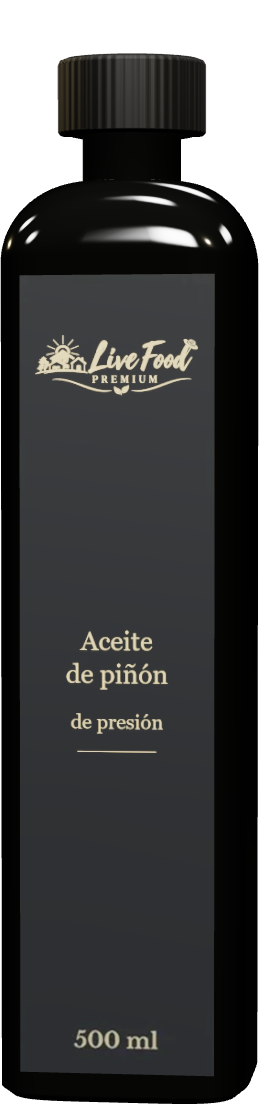
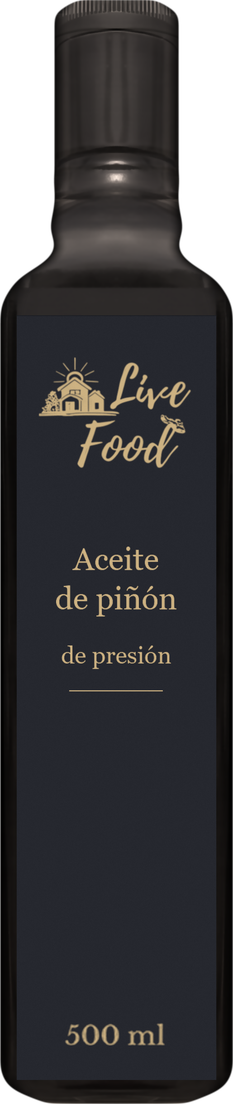
preview update

diff --git a/index.html b/index.html
@@ -1169,17 +1169,20 @@ function aoTex(){ const cv = document.createElement('canvas'); cv.width = cv.hei
 function ridge(){ const cv = document.createElement('canvas'); cv.width = 256; cv.height = 4; const x = cv.getContext('2d');
   for (let i = 0; i < 256; i++){ const v = 128 + 127*Math.sin(i/256*Math.PI*96); x.fillStyle = `rgb(${v},${v},${v})`; x.fillRect(i, 0, 1, 4); } return new THREE.CanvasTexture(cv); }
 function bottle(map){
-  const g = new THREE.Group(), B = 3.35, N = 5;
+  const g = new THREE.Group(), B = 3.40, N = 5; /* настоящая форма 500 мл: квадратный корпус, длинное горло, высокая крышка */
   const prof = [{y:0,r:0,n:N},{y:0,r:.46,n:N},{y:.035,r:.5,n:N},{y:B*.5,r:.5,n:N},{y:B,r:.5,n:N}];
-  for (let k = 1; k <= 18; k++){ const t = k/18; prof.push({y:B+.32*Math.sin(t*Math.PI/2), r:.2+.3*Math.cos(t*Math.PI/2), n:2+(N-2)*Math.pow(1-t, 1.6)}); }
-  prof.push({y:B+.66,r:.2,n:2},{y:B+.68,r:.218,n:2},{y:B+.76,r:.218,n:2},{y:B+.76,r:0,n:2});
+  for (let k = 1; k <= 18; k++){ const t = k/18; prof.push({y:B+.42*Math.sin(t*Math.PI/2), r:.25+.25*Math.cos(t*Math.PI/2), n:2+(N-2)*Math.pow(1-t, 1.6)}); }
+  prof.push({y:B+.80,r:.25,n:2},{y:B+.80,r:0,n:2});
   const body = new THREE.Mesh(loft(prof, 128), new THREE.MeshPhysicalMaterial({color:0x0f100e, roughness:.08, clearcoat:1, clearcoatRoughness:.04, envMapIntensity:1.4})); body.castShadow = true; g.add(body);
   const ao = new THREE.Mesh(new THREE.PlaneGeometry(1.9, 1.9), new THREE.MeshBasicMaterial({map:aoTex(), transparent:true, depthWrite:false, opacity:1})); ao.rotation.x = -Math.PI/2; ao.position.y = .004; g.add(ao);
-  const cap = new THREE.Mesh(new THREE.LatheGeometry([[0,0],[.30,0],[.31,.015],[.31,.07],[.293,.085],[.293,.31],[.283,.335],[.25,.35],[0,.35]].map(p => new THREE.Vector2(p[0], p[1])), 96),
+  const V = a => a.map(p => new THREE.Vector2(p[0], p[1]));
+  const collar = new THREE.Mesh(new THREE.LatheGeometry(V([[0,0],[.255,0],[.268,.014],[.268,.232],[.258,.244],[0,.244]]), 96), new THREE.MeshStandardMaterial({color:0x121212, roughness:.42}));
+  collar.position.y = B + .77; collar.castShadow = true; g.add(collar);
+  const cap = new THREE.Mesh(new THREE.LatheGeometry(V([[0,0],[.262,0],[.272,.012],[.272,.225],[.262,.262],[.235,.282],[0,.288]]), 96),
     new THREE.MeshStandardMaterial({color:0x111111, roughness:.6, bumpMap:ridge(), bumpScale:innerWidth < 900 ? .12 : .6}));
-  cap.position.y = B + .50; cap.castShadow = true; g.add(cap);
-  const lw = .77, lab = new THREE.Mesh(new THREE.PlaneGeometry(lw, lw/.2448), new THREE.MeshStandardMaterial({map, roughness:.6, polygonOffset:true, polygonOffsetFactor:-4, polygonOffsetUnits:-4}));
-  lab.position.set(0, B/2+.02, .506); g.add(lab); const bk = lab.clone(); bk.rotation.y = Math.PI; bk.position.z = -.506; g.add(bk);
+  cap.position.y = B + 1.016; cap.castShadow = true; g.add(cap);
+  const lw = .856, lab = new THREE.Mesh(new THREE.PlaneGeometry(lw, lw/.2616), new THREE.MeshStandardMaterial({map, roughness:.6, polygonOffset:true, polygonOffsetFactor:-4, polygonOffsetUnits:-4}));
+  lab.position.set(0, 1.73, .506); g.add(lab); const bk = lab.clone(); bk.rotation.y = Math.PI; bk.position.z = -.506; g.add(bk);
   g.position.y = -2.18; return g;
 }
 const SH = [{t:'img/label-tmin.jpg', n:'Масло чёрного тмина', p:'яркий и пряный вкус'},{t:'img/label-tykva.jpg', n:'Тыквенное масло', p:'глубокий орехово-семечковый вкус'},{t:'img/label-rastoropsha.jpg', n:'Масло расторопши', p:'насыщенный, слегка травянистый вкус'},{t:'img/label-kunzhut.jpg', n:'Кунжутное масло', p:'приятный ореховый вкус'}];
@@ -1207,7 +1210,7 @@ if (r){
   new IntersectionObserver(e => vis = e[0].isIntersecting).observe(box);
   const still = matchMedia('(prefers-reduced-motion:reduce)').matches;
   (function loop(){ requestAnimationFrame(loop); if (!vis) return; const t = performance.now()/1000;
-    bs.forEach((b, i) => { const on = i === act; b.position.z += ((on ? .7 : 0) - b.position.z)*.08; b.position.y = -2.18; const sc = on ? 1.04 : 1; b.scale.x += (sc - b.scale.x)*.08; b.scale.y = b.scale.z = b.scale.x;
+    bs.forEach((b, i) => { const on = i === act; b.position.z += ((on ? .7 : 0) - b.position.z)*.08; b.position.y = -2.18; const sc = (on ? 1.04 : 1)*.89; b.scale.x += (sc - b.scale.x)*.08; b.scale.y = b.scale.z = b.scale.x;
       b.rotation.y = 0; });
     cam.position.x = 0; cam.lookAt(0, -1.1, 0); r.render(scene, cam); })();
   const ray = new THREE.Raycaster(), v = new THREE.Vector2();
